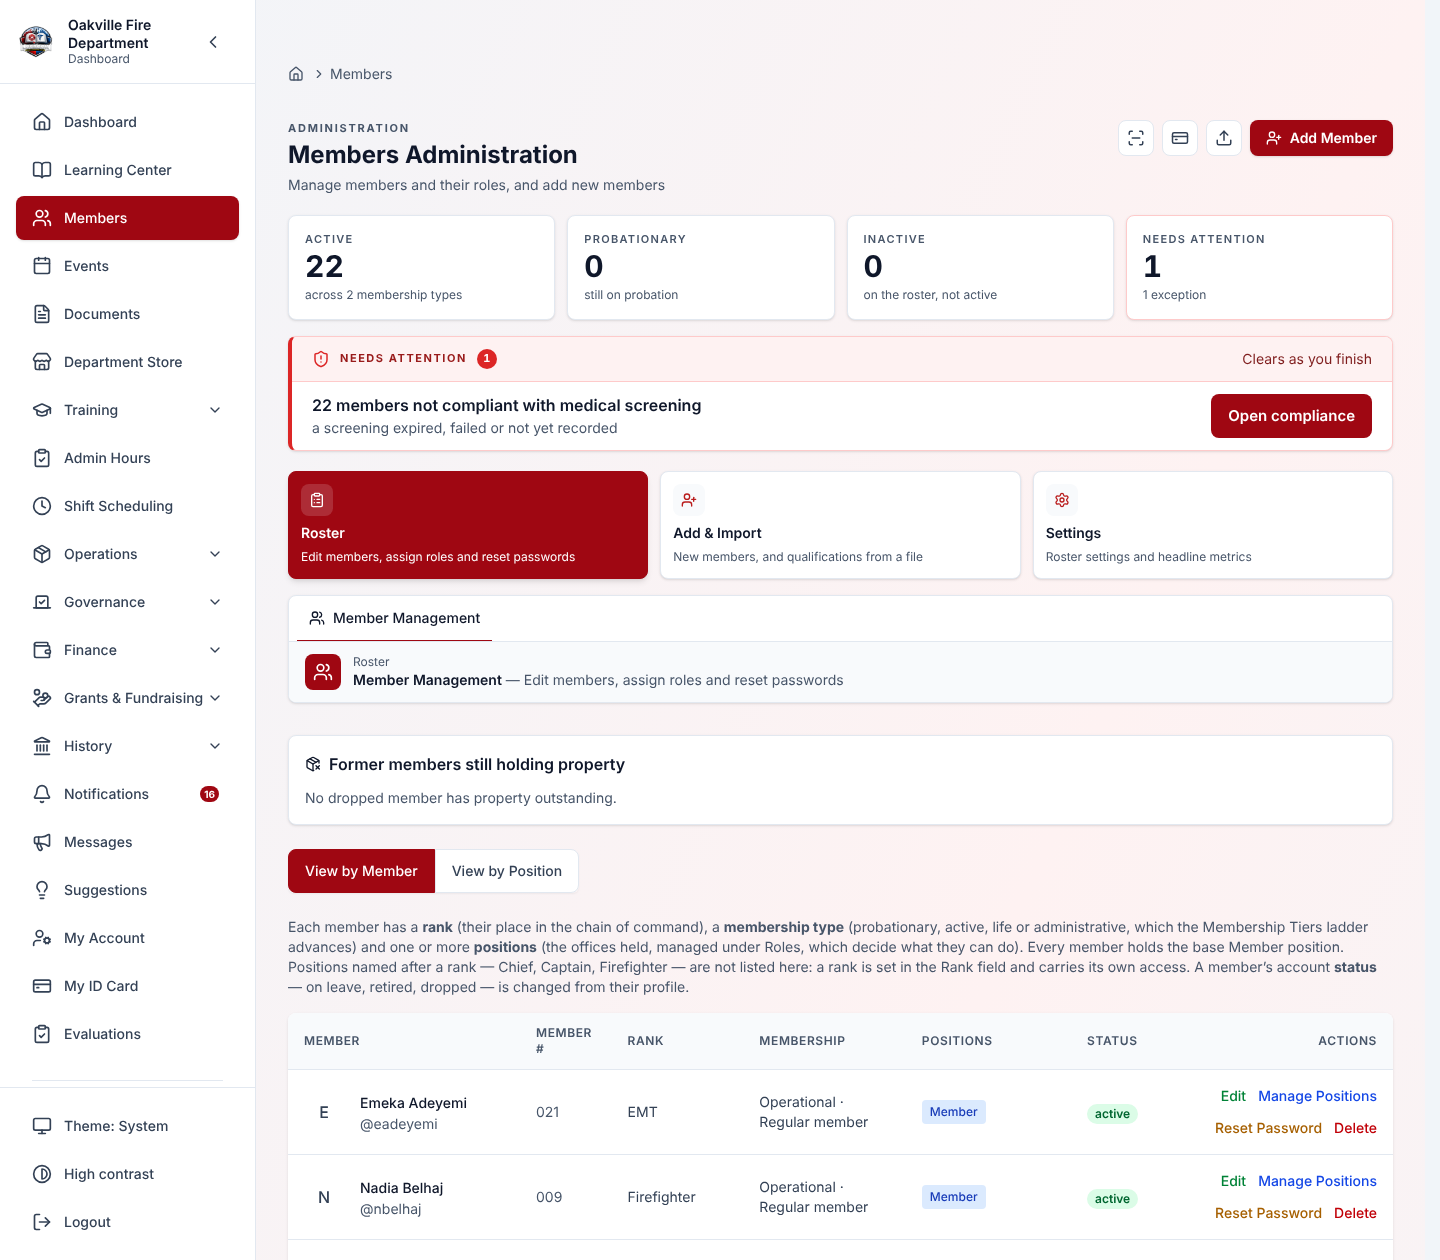
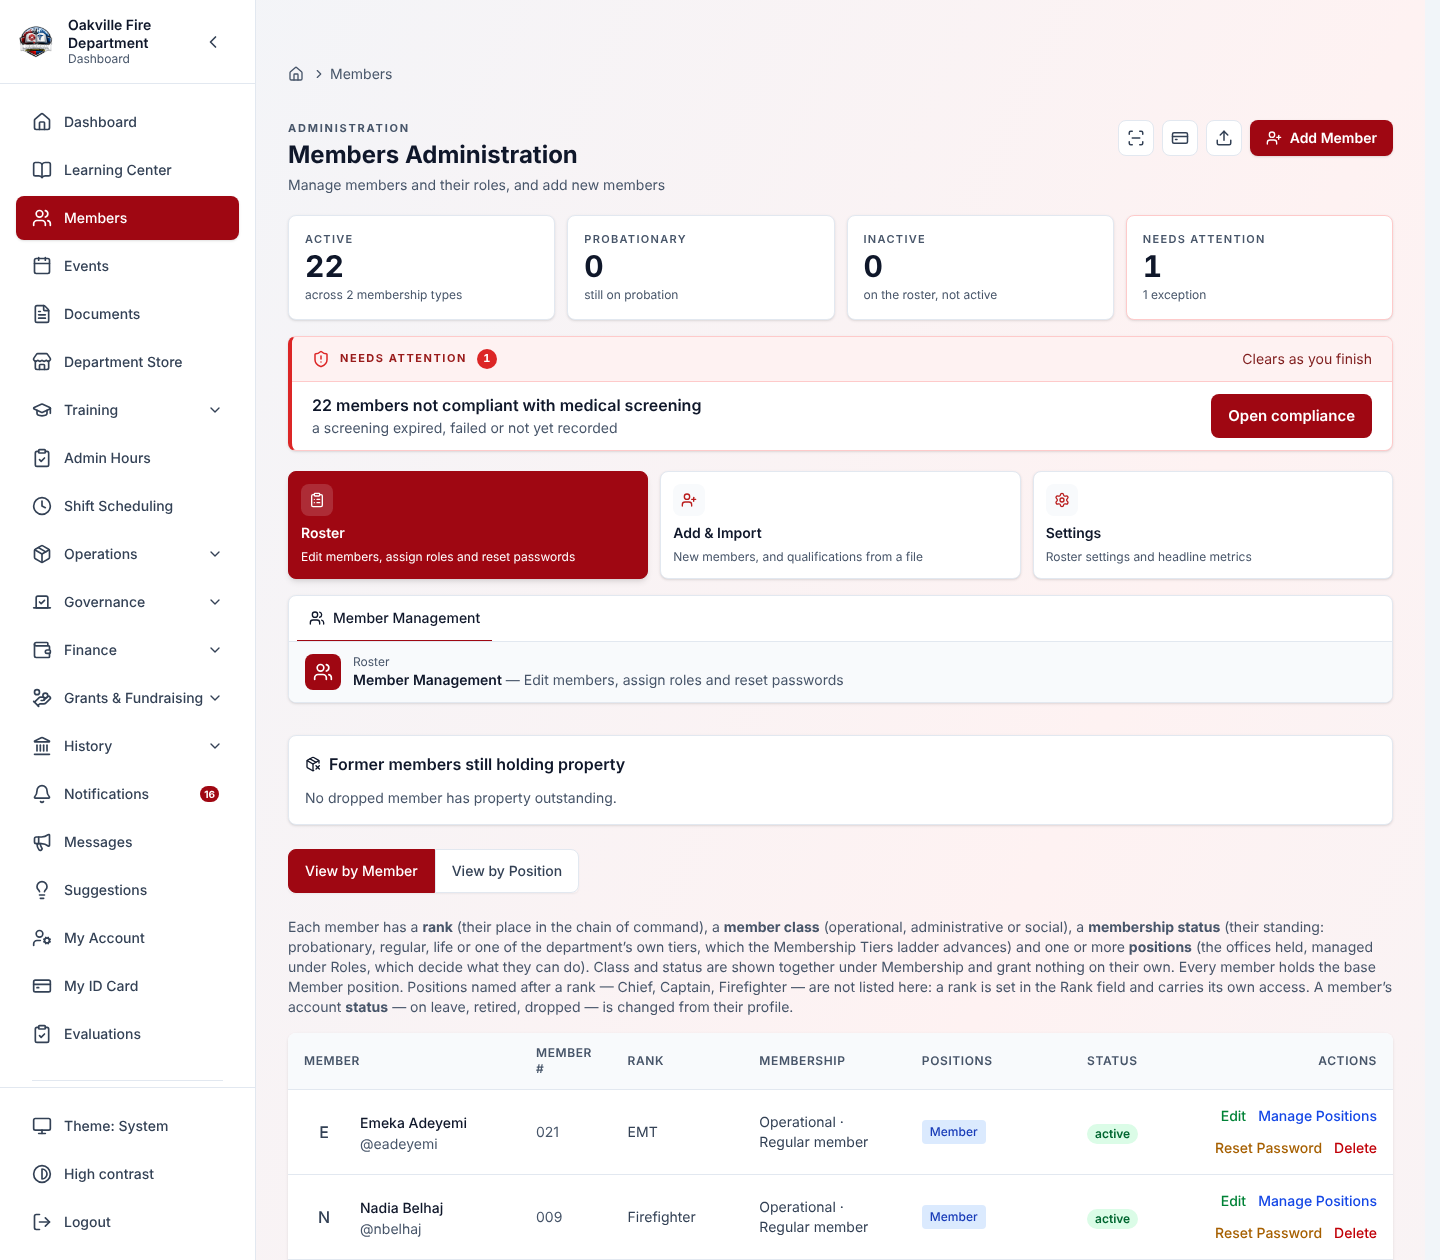
Members roster: explain member class and status, not "membership type"
The explainer above the roster described one "membership type
(probationary, active, life or administrative)". The record has split
that into a member class (operational, administrative or social) and a
membership status (the ladder standing), and the roster's Membership
column already shows the pair. The explainer now names both and says
neither grants anything on its own, matching the page's header comment
and guide 01.

Re-shoots 01-22-member-lifecycle and marks the item fixed in
SCREENSHOT_CURRENCY.md.

Claude-Session: https://claude.ai/code/session_01AAxg2m8MQwbqUdnVKSTT72

diff --git a/frontend/src/pages/MembersAdminPage.tsx b/frontend/src/pages/MembersAdminPage.tsx
@@ -7,7 +7,7 @@
  * Vice President, Secretary, Assistant Secretary
  *
  * Features:
- * - View by Member: See each member, their rank, membership type and positions
+ * - View by Member: See each member, their rank, member class and status, and positions
  * - View by Position: See each position and the members assigned to it
  * - Edit member contact information (admin)
  *
@@ -625,13 +625,14 @@ export const MembersAdminPage: React.FC = () => {
         </div>
 
         <p className="text-theme-text-muted mb-4 text-sm">
-          Each member has a <strong>rank</strong> (their place in the chain of command), a{' '}
-          <strong>membership type</strong> (probationary, active, life or administrative, which the Membership Tiers
-          ladder advances) and one or more <strong>positions</strong> (the offices held, managed under Roles, which
-          decide what they can do). Every member holds the base Member position. Positions named after a rank &mdash;
-          Chief, Captain, Firefighter &mdash; are not listed here: a rank is set in the Rank field and carries its own
-          access. A member&rsquo;s account <strong>status</strong> &mdash; on leave, retired, dropped &mdash; is changed
-          from their profile.
+          Each member has a <strong>rank</strong> (their place in the chain of command), a <strong>member class</strong>{' '}
+          (operational, administrative or social), a <strong>membership status</strong> (their standing: probationary,
+          regular, life or one of the department&rsquo;s own tiers, which the Membership Tiers ladder advances) and one
+          or more <strong>positions</strong> (the offices held, managed under Roles, which decide what they can do).
+          Class and status are shown together under Membership and grant nothing on their own. Every member holds the
+          base Member position. Positions named after a rank &mdash; Chief, Captain, Firefighter &mdash; are not listed
+          here: a rank is set in the Rank field and carries its own access. A member&rsquo;s account{' '}
+          <strong>status</strong> &mdash; on leave, retired, dropped &mdash; is changed from their profile.
         </p>
 
         {/* View by Member */}

diff --git a/frontend/src/pages/MembersAdminPage.test.tsx b/frontend/src/pages/MembersAdminPage.test.tsx
@@ -86,7 +86,7 @@ const member = {
   roles: [memberRole],
 };
 
-describe('MembersAdminPage — the roster names rank, membership type and positions apart', () => {
+describe('MembersAdminPage — the roster names rank, member class and status, and positions apart', () => {
   beforeEach(() => {
     vi.mocked(userService.getUsersWithRoles).mockReset();
     vi.mocked(roleService.getRoles).mockReset();
@@ -117,6 +117,22 @@ describe('MembersAdminPage — the roster names rank, membership type and positi
     expect(screen.getByRole('columnheader', { name: 'Positions' })).toBeInTheDocument();
     expect(screen.getByRole('columnheader', { name: 'Membership' })).toBeInTheDocument();
     expect(screen.queryByRole('columnheader', { name: 'Roles' })).not.toBeInTheDocument();
+  });
+
+  // The explainer above the roster described one "membership type" after the
+  // record had split it into a member class and a membership status — the
+  // two facts the Membership column shows.
+  it('explains the member class and membership status the column shows', async () => {
+    vi.mocked(userService.getUsersWithRoles).mockResolvedValue([member] as never);
+    renderWithRouter(<MembersAdminPage />);
+    await screen.findByRole('row', { name: /Jordan Avery/ });
+
+    const explainer = screen.getByText(
+      (_, el) => el?.tagName === 'P' && (el.textContent ?? '').startsWith('Each member has a')
+    );
+    expect(explainer).toHaveTextContent(/member class \(operational, administrative or social\)/);
+    expect(explainer).toHaveTextContent(/membership status \(their standing: probationary, regular, life/);
+    expect(explainer).not.toHaveTextContent(/membership type/);
   });
 
   it('marks a committee apart from an office on the roster chips', async () => {

diff --git a/docs/training/SCREENSHOT_CURRENCY.md b/docs/training/SCREENSHOT_CURRENCY.md
@@ -219,7 +219,8 @@ code:
 - The Members roster's Actions column is clipped at 1440px, and the explainer
   above it still describes one "membership type". The Actions column is
   **fixed on main** (#03f21141 and follow-ups; `01-22` re-shot 2026-11-04).
-  The explainer still says "membership type".
+  The explainer is **fixed**: it names the member class and membership status
+  the Membership column shows; `01-22` re-shot 2026-11-05.
 - An unchanged draft purchase request reads "Saving soon…" as soon as it opens.
   **Fixed** by #4037. No guide image pictured the status line.
 - On the prospective-members board, each card's selection checkbox
